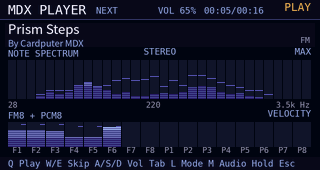
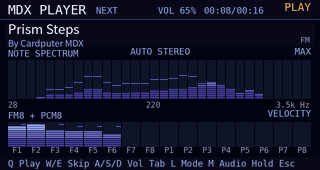
Follow the Bluetooth audio route in Auto mode

diff --git a/mdx-player.py b/mdx-player.py
@@ -2,6 +2,7 @@
 """X68000 MDX/PDX library player for the CardputerZero LCD."""
 
 import argparse
+from concurrent.futures import ThreadPoolExecutor
 import fcntl
 from functools import lru_cache
 import json
@@ -48,6 +49,8 @@ HEADPHONE_JACK = Path("/dev/input/by-path/platform-sound-event")
 EVIOCGSW = 0x8004451B  # EVIOCGSW(4)
 SW_HEADPHONE_INSERT = 2
 JACK_POLL_SECONDS = 0.25
+ROUTE_POLL_SECONDS = 1.0
+BUILTIN_SINK_PREFIX = "alsa_output.platform-sound."
 SINK = "@DEFAULT_AUDIO_SINK@"
 MEDIA_KEYS = {KEY_A: KEY_MUTE, KEY_S: KEY_VOLUMEDOWN, KEY_D: KEY_VOLUMEUP,
               KEY_Q: KEY_PLAYPAUSE, KEY_SPACE: KEY_PLAYPAUSE,
@@ -146,6 +149,51 @@ def headphones_connected():
     return bool(switches[0] & (1 << SW_HEADPHONE_INSERT))
 
 
+def pulse_output(pid):
+    def pactl(*args):
+        return subprocess.run(["/usr/bin/pactl", *args], env=SESSION_ENV, text=True,
+                              capture_output=True, check=True, timeout=0.35).stdout
+
+    try:
+        if pid is not None:
+            devices = json.loads(pactl("--format=json", "list"))
+            stream = next((item for item in devices["sink_inputs"]
+                           if item["properties"].get("application.process.id") == str(pid)), None)
+            if stream is not None:
+                sink = next((item for item in devices["sinks"]
+                             if item["index"] == stream["sink"]), None)
+                if sink is None:
+                    return None
+                return sink["name"], sink.get("channel_map", "")
+        default = pactl("get-default-sink").strip()
+        return (default, "") if default else None
+    except (OSError, subprocess.SubprocessError, ValueError, KeyError, TypeError):
+        return None
+
+
+class AudioRoute:
+    def __init__(self):
+        self.worker = ThreadPoolExecutor(max_workers=1, thread_name_prefix="audio-route")
+        self.query = None
+        self.query_pid = None
+        self.poll_at = 0.0
+        self.output = None
+
+    def update(self, now, pid):
+        if self.query is not None and self.query.done():
+            if self.query_pid == pid:
+                self.output = self.query.result() or self.output
+            self.query = None
+        if self.query is None and (now >= self.poll_at or self.query_pid != pid):
+            self.query_pid = pid
+            self.query = self.worker.submit(pulse_output, pid)
+            self.poll_at = now + ROUTE_POLL_SECONDS
+        return self.output
+
+    def close(self):
+        self.worker.shutdown(wait=False, cancel_futures=True)
+
+
 class Playback:
     def __init__(self):
         self.decoder = None
@@ -154,7 +202,9 @@ class Playback:
         self.mix_pending = False
         self.audio_mode = "AUTO"
         self.mono = True
+        self.audio_route = AudioRoute()
         self.jack_poll_at = 0.0
+        self.wired_headphones = False
         self.duration_probe = None
         self.duration_deadline = 0.0
         self.title = "Open the filer with Tab"
@@ -176,15 +226,20 @@ class Playback:
         index = AUDIO_MODES.index(self.audio_mode)
         self.audio_mode = AUDIO_MODES[(index + 1) % len(AUDIO_MODES)]
         self.jack_poll_at = 0.0
+        self.audio_route.poll_at = 0.0
         self.update_audio_mode(now)
 
     def update_audio_mode(self, now):
         if self.audio_mode == "AUTO":
-            if now >= self.jack_poll_at:
-                self.jack_poll_at = now + JACK_POLL_SECONDS
-                mono = not headphones_connected()
+            pid = self.audio.pid if self.audio is not None else None
+            name, channels = self.audio_route.update(now, pid) or ("", "")
+            if name and not name.startswith(BUILTIN_SINK_PREFIX):
+                mono = bool(channels) and "," not in channels
             else:
-                mono = self.mono
+                if now >= self.jack_poll_at:
+                    self.jack_poll_at = now + JACK_POLL_SECONDS
+                    self.wired_headphones = headphones_connected()
+                mono = not self.wired_headphones
         else:
             mono = self.audio_mode == "MONO"
         if mono != self.mono:
@@ -775,7 +830,10 @@ def run(duration, play):
                     draw_lcd(lcd, render(filer, playback, mode, volume, offset, exit_progress))
                     last_frame = frame
     finally:
-        playback.stop()
+        try:
+            playback.stop()
+        finally:
+            playback.audio_route.close()
 
 
 def make_icon(path):

diff --git a/tests/check_audio_route.py b/tests/check_audio_route.py
@@ -1,0 +1,103 @@
+#!/usr/bin/env python3
+"""Check the Mono/Stereo decision independently of attached audio hardware."""
+
+from concurrent.futures import Future
+import importlib.util
+import json
+from pathlib import Path
+import subprocess
+import sys
+from types import SimpleNamespace
+from unittest.mock import Mock, patch
+
+
+BUILTIN = "alsa_output.platform-sound.stereo-fallback"
+BLUETOOTH = "bluez_output.test.1"
+STEREO = "front-left,front-right"
+
+
+def check_pulse_output(player):
+    devices = {
+        "sinks": [
+            {"index": 10, "name": BUILTIN, "channel_map": STEREO},
+            {"index": 20, "name": BLUETOOTH, "channel_map": STEREO},
+        ],
+        "sink_inputs": [
+            {"sink": 10, "properties": {"application.process.id": "123"}},
+            {"sink": 20, "properties": {"application.process.id": "456"}},
+        ],
+    }
+
+    def pactl(command, **kwargs):
+        output = json.dumps(devices) if "list" in command else BUILTIN + "\n"
+        return SimpleNamespace(stdout=output)
+
+    with patch.object(player.subprocess, "run", side_effect=pactl):
+        assert player.pulse_output(456) == (BLUETOOTH, STEREO)
+        assert player.pulse_output(123) == (BUILTIN, STEREO)
+        assert player.pulse_output(None) == (BUILTIN, "")
+        assert player.pulse_output(789) == (BUILTIN, "")
+    with patch.object(player.subprocess, "run",
+                      side_effect=subprocess.TimeoutExpired("pactl", 0.35)):
+        assert player.pulse_output(123) is None
+
+
+def check_route_refresh(player):
+    routes = player.AudioRoute()
+    try:
+        routes.output = (BUILTIN, STEREO)
+        routes.query = Future()
+        routes.query.set_result((BLUETOOTH, STEREO))
+        routes.query_pid = 456
+        with patch.object(routes.worker, "submit", return_value=Future()):
+            assert routes.update(1, 123) == (BUILTIN, STEREO)
+            assert routes.query_pid == 123
+        routes.query.set_result(None)
+        assert routes.update(1.1, 123) == (BUILTIN, STEREO)
+    finally:
+        routes.close()
+
+
+def check_mix_modes(player):
+    route = Mock()
+    route.update.return_value = (BUILTIN, STEREO)
+    with patch.object(player, "AudioRoute", return_value=route):
+        playback = player.Playback()
+    playback.audio = SimpleNamespace(pid=456)
+    with patch.object(player, "headphones_connected", return_value=False) as jack:
+        playback.update_audio_mode(1)
+        assert playback.audio_label == "AUTO MONO"
+        jack.return_value = True
+        playback.update_audio_mode(2)
+        assert playback.audio_label == "AUTO STEREO"
+        jack.return_value = False
+        route.update.return_value = (BLUETOOTH, STEREO)
+        playback.update_audio_mode(3)
+        assert playback.audio_label == "AUTO STEREO"
+        route.update.assert_called_with(3, 456)
+        playback.cycle_audio_mode(4)
+        assert playback.audio_label == "MONO"
+        playback.cycle_audio_mode(5)
+        assert playback.audio_label == "STEREO"
+        route.update.return_value = (BLUETOOTH, "mono")
+        playback.cycle_audio_mode(6)
+        assert playback.audio_label == "AUTO MONO"
+        route.update.return_value = ("alsa_output.usb-audio.analog-stereo", STEREO)
+        playback.update_audio_mode(7)
+        assert playback.audio_label == "AUTO STEREO"
+        route.update.return_value = (BUILTIN, STEREO)
+        playback.update_audio_mode(8)
+        assert playback.audio_label == "AUTO MONO"
+
+
+if __name__ == "__main__":
+    path = Path(sys.argv[1]).resolve() if len(sys.argv) > 1 else (
+        Path(__file__).resolve().parents[1] / "mdx-player.py")
+    sys.path.insert(0, str(path.parent))
+    spec = importlib.util.spec_from_file_location("mdx_player", path)
+    player = importlib.util.module_from_spec(spec)
+    spec.loader.exec_module(player)
+    check_pulse_output(player)
+    check_route_refresh(player)
+    check_mix_modes(player)
+    print("Audio routing checks passed.")

diff --git a/README.md b/README.md
@@ -10,7 +10,7 @@ PDX sample mixing, and software YM2151 synthesis at 44.1 kHz stereo.
 
 1. Download the Arm64 Debian package from the release and copy it to your
    CardputerZero.
-2. Run `sudo apt install ./cardputer-mdx_0.2.0-1_arm64.deb` on the device.
+2. Run `sudo apt install ./cardputer-mdx_0.2.1-1_arm64.deb` on the device.
 3. Put your MDX files in `~/Music/MDX Library`. You can organize them in
    subfolders. Keep each PDX sample bank in the same folder as the tracks
    that use it.
@@ -32,8 +32,9 @@ needs administrator access. Playback runs as the signed-in device user.
 | B / V | Open favorites or toggle a favorite |
 | Hold Esc for 1 second | Exit |
 
-Auto starts in mono on the built-in speaker and follows the wired headphone
-jack for stereo. Changing the output mode keeps the current playback position.
+Auto mixes to mono on the built-in speaker and follows the wired headphone
+jack for stereo. It also follows the active Bluetooth or other external audio
+output. Changing the output mode keeps the current playback position.
 Playback settings and favorites are stored under
 `~/.local/share/cardputer-mdx/` by default.
 
@@ -47,7 +48,7 @@ sudo apt install build-essential binutils dpkg
 sh ./build-deb.sh
 ```
 
-The package is written to `dist/cardputer-mdx_0.2.0-1_arm64.deb`. Pass a
+The package is written to `dist/cardputer-mdx_0.2.1-1_arm64.deb`. Pass a
 directory as the first argument to change the output location. Set
 `SOURCE_DATE_EPOCH` to the release commit timestamp to fix package timestamps.
 The build uses only the source in this tree and the installed system tools.
